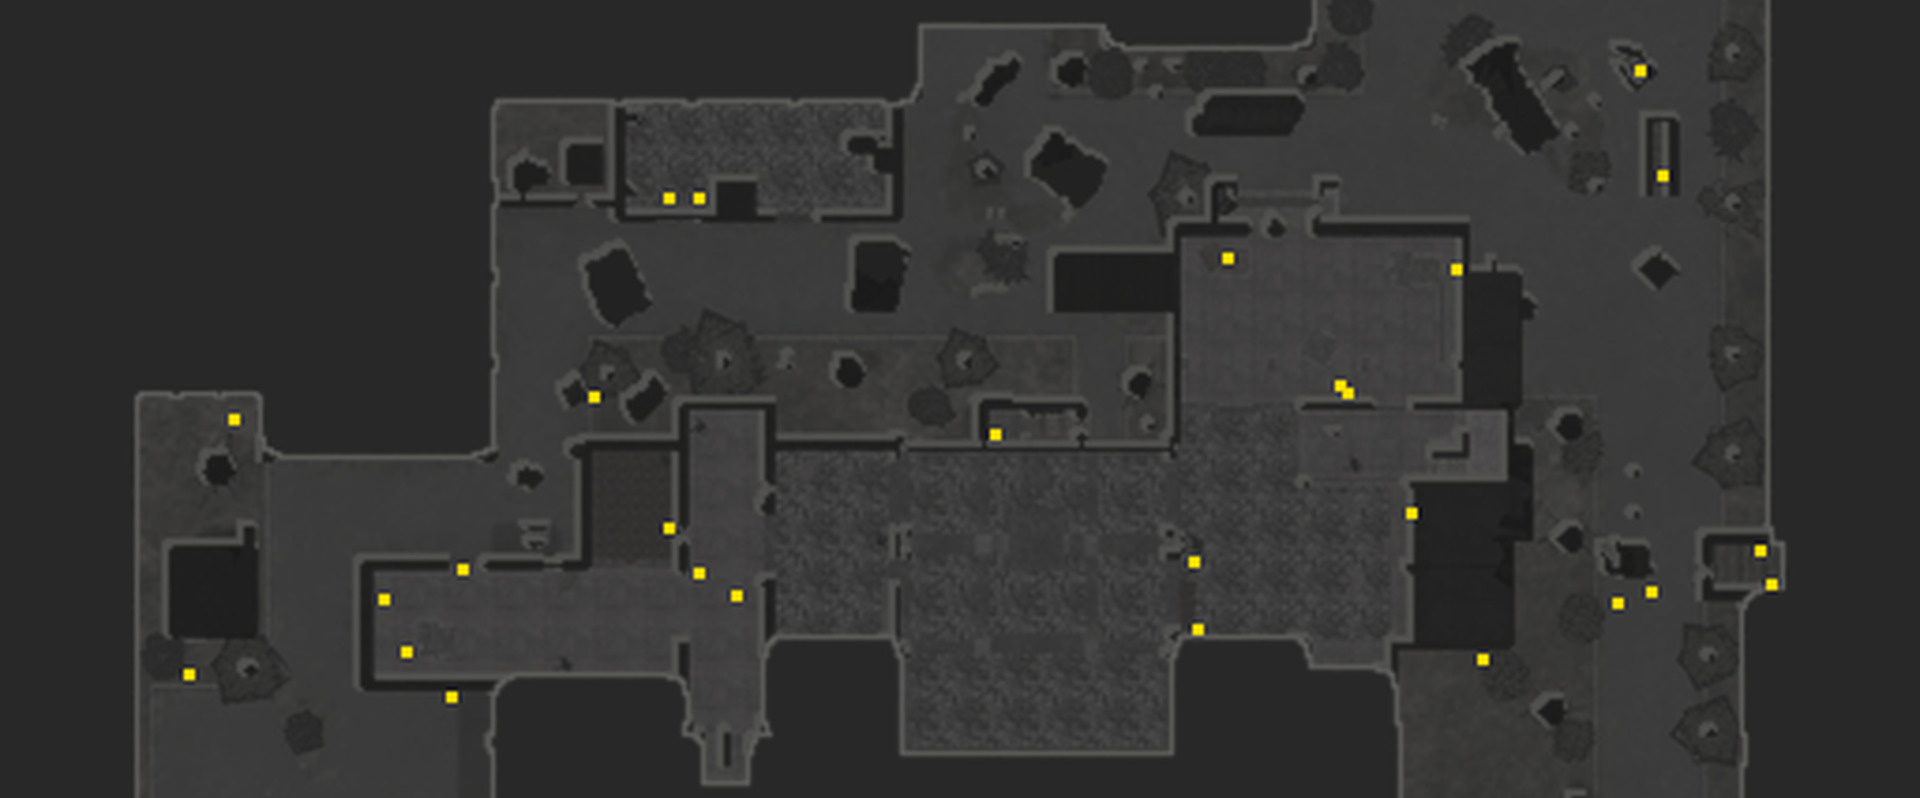
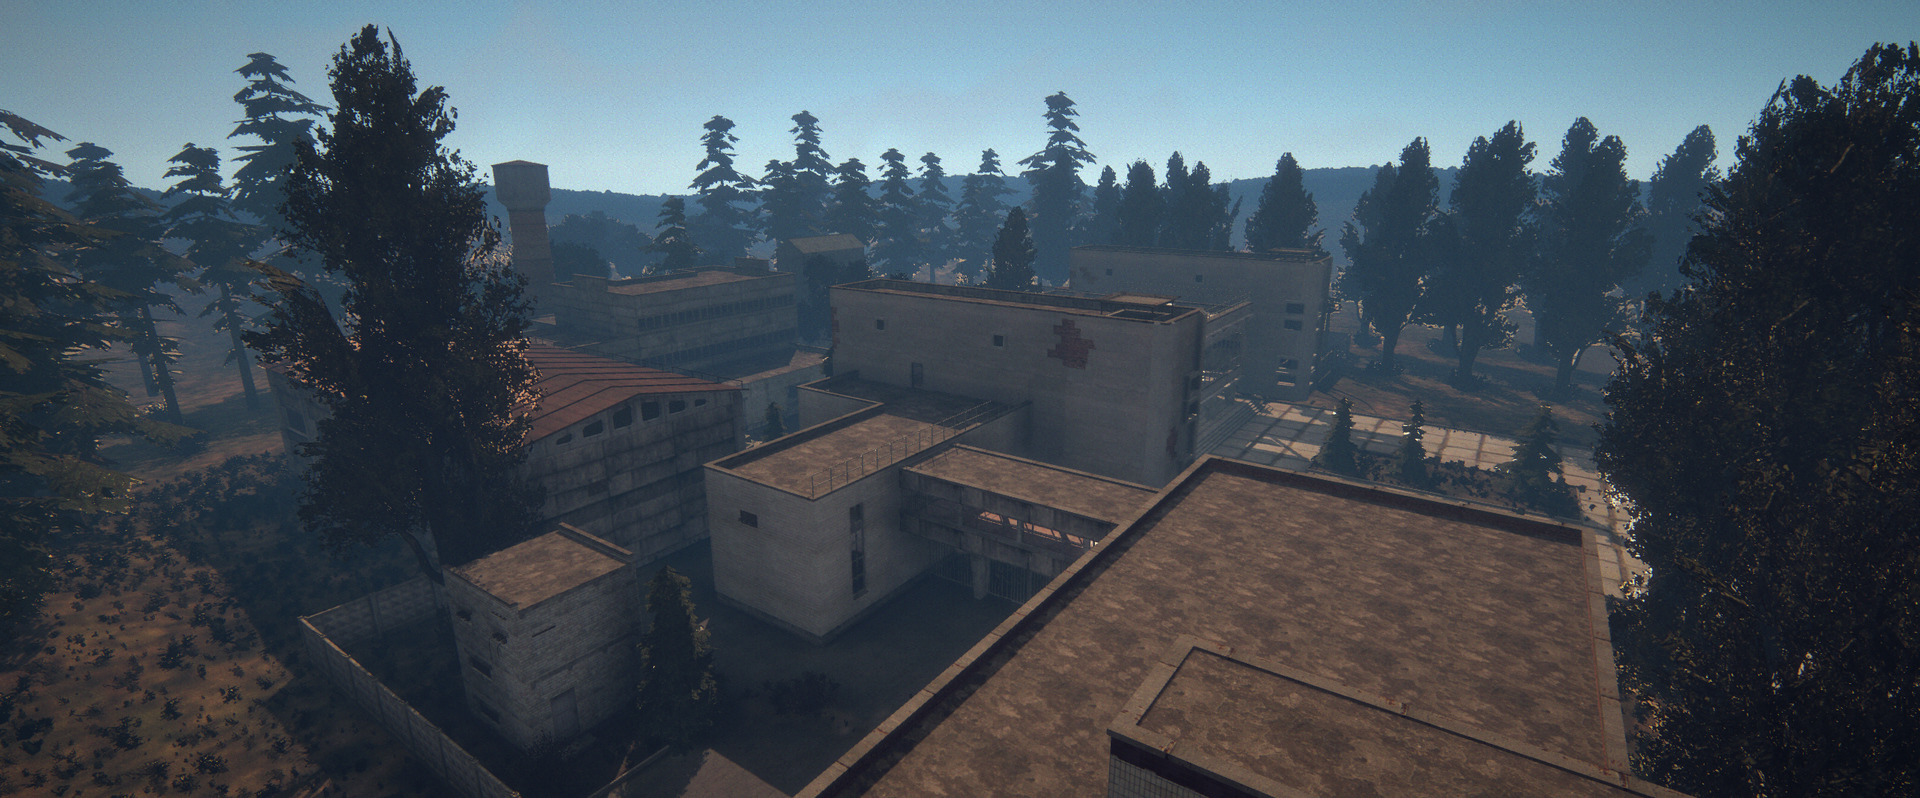
STALKER maps: pack stalker-maps-2@2 (thinner grass), loading pictures from the game
- Dark Valley and Fire Station died loading on the rev59 client with their
  levels' grass (142,346 and 147,551 tufts: grass_cook::on_layers_loaded
  needs count x 20 bytes of the resource thread's stack, which patch 128
  sets to 2 MiB). Pack @2 has 55,959 and 49,767 (resource-porter
  density 0.5 and 1.0); Vehicle Station's 71,179 loads. The notes say
  Experimental Pool's 125,844 is over that line too.
- Loading pictures (room tiles, vote cards) of Dark Valley, Vehicle Station
  and Fire Station: headless frames of the game at 2560 x 1440, highest
  settings; Sports Center keeps the minimap preview for now.

diff --git a/srp-026g/scripts/stalker-maps/make_ffa_edits.py b/srp-026g/scripts/stalker-maps/make_ffa_edits.py
@@ -1,6 +1,6 @@
 #!/usr/bin/env python3
 """Generate ffa-stalker-1.json from checked FFA points and stalker-maps@6, or
-(--second) ffa-stalker-2.json from ffa-spawns-2.tsv and stalker-maps-2@1.
+(--second) ffa-stalker-2.json from ffa-spawns-2.tsv and stalker-maps-2@2.
 
 --pack is the source pack folder (pack.json and files/). --dictionary is the
 composed gameplay/db_static_dictionaries, used to refuse occupied FFA IDs.
@@ -179,14 +179,14 @@ def edits(pack, dictionary):
     return out
 
 
-# The second list: Dark Valley, Vehicle Station, Fire Station and Sports Center (pack stalker-maps-2@1,
+# The second list: Dark Valley, Vehicle Station, Fire Station and Sports Center (pack stalker-maps-2@2,
 # maps_dict 33-36 held out of the dictionary by stalker-tdm-hold-1.json), each with its own Free for
 # All config on its own project (`day_8`, copied by ffa-projects-1.json) and the points of
 # ffa-spawns-2.tsv: the STALKER planner's 24 (ffa-points) made twice as many by the spawn rule
 # (check-points' to_cover --times 2), as the first list's maps have them after ffa-cover-maps-1.
 OUT_2 = HERE.parent / 'content-edit/ffa-stalker-2.json'
 POINTS_2 = HERE / 'ffa-spawns-2.tsv'
-PACK_2 = ('stalker-maps-2', '1')
+PACK_2 = ('stalker-maps-2', '2')
 MAPS_2 = [('cs_mp_darkvalley', 33, 37), ('cs_mp_atp', 34, 38), ('cs_mp_firestation', 35, 39), ('cs_mp_sport_center', 36, 40)]
 # 24 planned, twice as many by the rule: 48 a map, less the points left out (EXCLUDED_2).
 COUNT_2 = 48
@@ -256,7 +256,7 @@ def table_2(planned, cover):
 def edits_2(pack, dictionary, count=None):
     manifest = json.loads((pack / 'pack.json').read_text())
     if (manifest['id'], str(manifest['version'])) != PACK_2:
-        raise ValueError('recheck the collision and the points for a pack other than stalker-maps-2@1')
+        raise ValueError('recheck the collision and the points for a pack other than stalker-maps-2@2')
     rows = tree(dictionary.read_bytes())['maps_dict']
     used = {r['id'] for r in rows}
     names = {r['cfg_mode_name'] for r in rows}
@@ -265,7 +265,7 @@ def edits_2(pack, dictionary, count=None):
     checked = points_2(count)
     points = (f'{count} team-2 points a map' if count else
               f'{COUNT_2} team-2 points a map (Vehicle Station 47: none on the roof only its ladder clmbl#4 reaches)')
-    out = {'_about': 'Free for All on Dark Valley, Vehicle Station, Fire Station and Sports Center (pack stalker-maps-2@1; '
+    out = {'_about': 'Free for All on Dark Valley, Vehicle Station, Fire Station and Sports Center (pack stalker-maps-2@2; '
            'maps_dict 37-40, their Team Deathmatch rows 33-36 held out by stalker-tdm-hold-1). Generated by '
            'scripts/stalker-maps/make_ffa_edits.py --second from ffa-spawns-2.tsv. Each map\'s config is a copy of its '
            'Team Deathmatch config as mode 8 (rules 93/91/94, 30 kills) on its own project, day_8 (ffa-projects-1); '
@@ -277,7 +277,7 @@ def edits_2(pack, dictionary, count=None):
         tdm = f'gameplay/game_modes/v010b_{key}_level_03_day_4.options'
         ffa = f'gameplay/game_modes/ffa/v010b_{key}_day_8.options'
         if not any(r['id'] == tdm_id and r['cfg_mode_name'] == tdm.removeprefix('gameplay/game_modes/') for r in rows):
-            raise ValueError(f'missing STALKER TDM map {tdm_id}; compose stalker-maps-2@1 first')
+            raise ValueError(f'missing STALKER TDM map {tdm_id}; compose stalker-maps-2@2 first')
         if ffa_id in used or ffa.removeprefix('gameplay/game_modes/') in names:
             raise ValueError(f'FFA map {ffa_id} or config is already present')
         mode = tree((pack / 'files' / tdm).read_bytes())['mode']
@@ -341,7 +341,7 @@ def main():
                     help="write ffa-spawns-2.tsv from ffa-points' table and to_cover's rows, and nothing else")
     ap.add_argument('--pack', type=Path)
     ap.add_argument('--dictionary', type=Path)
-    ap.add_argument('--second', action='store_true', help='the second list: ffa-stalker-2.json over stalker-maps-2@1')
+    ap.add_argument('--second', action='store_true', help='the second list: ffa-stalker-2.json over stalker-maps-2@2')
     ap.add_argument('--planned', type=int, metavar='N', help="--second with the planner's N points a map alone (to_cover's input)")
     ap.add_argument('--out', type=Path)
     ap.add_argument('--check', action='store_true')

diff --git a/srp-026g/scripts/damage-calc/assets/maps/tools/build_all.py b/srp-026g/scripts/damage-calc/assets/maps/tools/build_all.py
@@ -82,22 +82,22 @@ PATCHED = {
                                    origin='Clear Sky port, pack stalker-maps@6 (patch 57)', name='Training Camp',
                                    name_key='st_cs_training_camp_name', project_name='cs_training_camp', project='day_8',
                                    modes=(8,), map_ids={44: 8}),
-    # The four of pack stalker-maps-2@1 (Free for All only; docs/notes/stalker-maps.md). Their bitmaps
+    # The four of pack stalker-maps-2@2 (Free for All only; docs/notes/stalker-maps.md). Their bitmaps
     # are named as FFDec exports the hud.swf that has them (the classes after them took new ids).
     'v010b_cs_mp_darkvalley': dict(size=76.509, posX=278.25, posY=-207.54, bitmap='1032_minimap_cs_mp_darkvalley.png',
-                      origin='Clear Sky port, pack stalker-maps-2@1', name='Dark Valley',
+                      origin='Clear Sky port, pack stalker-maps-2@2', name='Dark Valley',
                       name_key='st_cs_mp_darkvalley_name', project_name='cs_mp_darkvalley', project='day_8', modes=(8,),
                       map_ids={37: 8}),
     'v010b_cs_mp_atp': dict(size=73.143, posX=135.325, posY=-26.975, bitmap='1030_minimap_cs_mp_atp.png',
-                      origin='Clear Sky port, pack stalker-maps-2@1', name='Vehicle Station',
+                      origin='Clear Sky port, pack stalker-maps-2@2', name='Vehicle Station',
                       name_key='st_cs_mp_atp_name', project_name='cs_mp_atp', project='day_8', modes=(8,),
                       map_ids={38: 8}),
     'v010b_cs_mp_firestation': dict(size=73.143, posX=-8.48, posY=14.84, bitmap='1033_minimap_cs_mp_firestation.png',
-                      origin='Clear Sky port, pack stalker-maps-2@1', name='Fire Station',
+                      origin='Clear Sky port, pack stalker-maps-2@2', name='Fire Station',
                       name_key='st_cs_mp_firestation_name', project_name='cs_mp_firestation', project='day_8', modes=(8,),
                       map_ids={39: 8}),
     'v010b_cs_mp_sport_center': dict(size=73.143, posX=-58.66, posY=-36.47, bitmap='1036_minimap_cs_mp_sport_center.png',
-                      origin='Clear Sky port, pack stalker-maps-2@1', name='Sports Center',
+                      origin='Clear Sky port, pack stalker-maps-2@2', name='Sports Center',
                       name_key='st_cs_mp_sport_center_name', project_name='cs_mp_sport_center', project='day_8', modes=(8,),
                       map_ids={40: 8}),
 }

diff --git a/srp-026g/scripts/v011e-vostok-anomalies/make_modes_edit.py b/srp-026g/scripts/v011e-vostok-anomalies/make_modes_edit.py
@@ -99,7 +99,7 @@ def build(base, research_pack):
     edits['remove_entry'] = [{'file': BATTERY, 'list': path, 'where': {'full_name': e['full_name']}}
                              for e in previous]
     edits['append_entry'].append({'file': 'gameplay/db_static_dictionaries', 'list': 'maps_dict',
-                                  # Includes the six stalker-maps@6 and four stalker-maps-2@1 TDM registrations.
+                                  # Includes the six stalker-maps@6 and four stalker-maps-2@2 TDM registrations.
                                   'expected_count': 164, 'unique_key': 'id',
                                   'value': {'cfg_mode_name': 'v011e_level_03_day_5.options', 'id': MAP_ID}})
     return edits

diff --git a/srp-026g/scripts/stalker-maps/ffa-points/src/main.rs b/srp-026g/scripts/stalker-maps/ffa-points/src/main.rs
@@ -47,7 +47,7 @@ const GROUND_BELOW: f32 = 1.0;
 const REASON: &str = "reachable standing floor; body clear; harmful zones >=2m; walkable facing 6m; spread farthest-first";
 const TRAINING_REASON: &str = "reachable standing floor; body clear; harmful zones >=2m; walkable facing 6m; spread farthest-first in 3D";
 
-/// Bounds of the reviewed port's minimaps (stalker-maps@6, stalker-maps-2@1:
+/// Bounds of the reviewed port's minimaps (stalker-maps@6, stalker-maps-2@2:
 /// render_minimap.py's play area). The imported projects have a dummy 2 m
 /// levelmap; mapdata's native-map fallback truncates Military Warehouses.
 /// Training Camp has open scenery beyond its fence.

diff --git a/srp-026g/docs/notes/stalker-maps.md b/srp-026g/docs/notes/stalker-maps.md
@@ -66,11 +66,13 @@ its row of `release/content.tsv`. The list must stay the last that edits
 ## Four more maps: stalker-maps-2 (the owner, 2026-11-14)
 
 "Port four STALKER multiplayer maps", Free for All only, Clear Sky's versions:
-pack `stalker-maps-2@1` and content edit `ffa-stalker-2.json`. Built after the
+pack `stalker-maps-2@2` and content edit `ffa-stalker-2.json`. Built after the
 released `stalker-maps@6`, which they do not change: `release/build-content 60`
-(a quick build, `content-maps2-c` below) makes 4,847 new files, all the four
-maps' (their namespaces `ported/cs/<map>`, projects, ramp models and probes),
-and changes no file of the six maps; the 15 files that differ are the hud and
+(a quick build, `/mnt/hdd/Projects/stalker-maps-026/content-maps2-d`) makes
+4,855 new files, the four maps' (their namespaces `ported/cs/<map>`,
+projects, configs, ramp models and probes, and the four default probe
+textures `textures/ported/v010b/environment_probes/environment_probe*`), and
+changes no file of the six maps; the 15 files that differ are the hud and
 lobby movies, `gameplay/db_static_dictionaries` and the eleven localization
 files. The pack leaves out the 44 v0.100b template files (`textures/` and
 `material_instances/ported/v010b/{tiled,flora,sky,...}`) players have from
@@ -108,9 +110,17 @@ that would differ stops the build), so it needs that pack beside it.
   shift by 4 (as `stalker-maps@6`'s six did); `artefact-keeper-1` gives the
   four TDM projects their Keeper pool (Free for All's copies take it);
   `simulation_changes.tsv` has the `next` row.
-- Grass: X-Ray's detail objects on Dark Valley (142,346 tufts), Vehicle
-  Station (71,179) and Fire Station (147,551 at `density` 0.5; 384,112 at
-  the level's); Sports Center's level has none.
+- Grass: X-Ray's detail objects on Dark Valley (55,959 tufts at `density`
+  0.5; 142,346 at the level's 0.3), Vehicle Station (71,179) and Fire Station
+  (49,767 at `density` 1.0; 384,112 at the level's); Sports Center's level
+  has none. The client cooks a map's grass on the resource thread with
+  count x 20 bytes of stack (`grass_cook::on_layers_loaded` 0x12A820,
+  `_chkstk` from 0x12AC7E), and patch 128 gives that thread 2 MiB
+  (`THREAD_STACKS`, 0xE37BA): with 142,346 and 147,551 tufts the rev59
+  client died loading Dark Valley and Fire Station (`STACK_OVERFLOW`, 3 of
+  3; reports in `/mnt/hdd/Projects/stalker-maps-026/previews-maps2/crashes/`),
+  hence the thinner grass (at most 71,179, 1.4 MB: pack @2; @1, never released, had them all). Experimental Pool's
+  125,844 (2.5 MB) is over that line too: to check on the live client.
 - Static render geometry (`geometry.py`): Dark Valley 16.3 MiB, Vehicle
   Station 22.9, Fire Station 11.8, Sports Center 9.2 (native maps 43-48,
   the vertex pool 88 MB). Collision 194,093, 312,969, 190,097 and 88,835
@@ -172,7 +182,8 @@ projects). The points: the STALKER planner's 24 (`ffa-points`, its play
 areas the minimaps' frames) made twice as many by the spawn rule
 (check-points' `to_cover --times 2`; `ffa.md`): 48 a map, Vehicle Station
 47 (its point 14 stood on the roof only clmbl#4 reaches and is left out,
-`EXCLUDED_2`). Run on build C, `to_cover --times 1` keeps all 191 as they are.
+`EXCLUDED_2`). Run on that build, `to_cover --times 1` keeps all 191 as
+they are, and the released Free for All maps test passes on its server data.
 
 ```sh
 stalker-ffa-points <layers> --project v010b_cs_mp_<map>/day_4 ... --plots P > planned.tsv
@@ -196,8 +207,17 @@ appended (the manifest's state before the list).
   the bushes' rustle (`stalker-bushes`, made from `stalker-maps@6` only: a
   row each of `make_pack.py`'s `MAPS` and a pack of their leaves). Each is a
   row more in that list or script.
-- The loading pictures are frames of the game (2560 x 1440, highest
-  settings), or, until those are taken, the minimap's preview.
+- Loading pictures: frames of the game, headless at 2560 x 1440, highest
+  settings, hfov 100 (Dark Valley `sw-high` (200, 28, -262) yaw 55.2 pitch
+  -15.7; Vehicle Station `e-high` (196, 18, -27) -90 / -20.7; Fire Station
+  `nw-high` (-72, 26, 66) 128.9 / -12.8, the hose tower in the middle; all
+  high overviews: the eye-level tries were blocked). Sports Center still has
+  the minimap's preview: its capture waited on the owner's game. The shots,
+  contact sheets and the harness (its 8 Sports Center poses ready) are in
+  `/mnt/hdd/Projects/stalker-maps-026/previews-maps2/`.
+- A flat surface in Dark Valley's north and north-east yards, knee to eye
+  high, is drawn plain white in those frames (`n-yard`, `ne-yard`): not
+  looked into.
 - Seen in the game: nothing yet (not played, not released). Bots have no
   map data for them (Free for All is not played with bots).
 

diff --git a/srp-026g/scripts/damage-calc/assets/maps/README.md b/srp-026g/scripts/damage-calc/assets/maps/README.md
@@ -24,10 +24,10 @@ elevation grid for every map.
 | v010b_cs_mp_bath | Experimental Pool | 0.0952 | 42 (STALKER port, patch 57; Free for All) |
 | v010b_cs_mp_military_1 | Military Warehouses | 0.1843 | 43 (STALKER port, patch 57; Free for All) |
 | v010b_cs_training_camp | Training Camp | 0.1038 | 44 (STALKER port, patch 57; Free for All) |
-| v010b_cs_mp_darkvalley | Dark Valley | 0.0996 | 37 (STALKER port, pack stalker-maps-2@1; Free for All) |
-| v010b_cs_mp_atp | Vehicle Station | 0.0952 | 38 (STALKER port, pack stalker-maps-2@1; Free for All) |
-| v010b_cs_mp_firestation | Fire Station | 0.0952 | 39 (STALKER port, pack stalker-maps-2@1; Free for All) |
-| v010b_cs_mp_sport_center | Sports Center | 0.0952 | 40 (STALKER port, pack stalker-maps-2@1; Free for All) |
+| v010b_cs_mp_darkvalley | Dark Valley | 0.0996 | 37 (STALKER port, pack stalker-maps-2@2; Free for All) |
+| v010b_cs_mp_atp | Vehicle Station | 0.0952 | 38 (STALKER port, pack stalker-maps-2@2; Free for All) |
+| v010b_cs_mp_firestation | Fire Station | 0.0952 | 39 (STALKER port, pack stalker-maps-2@2; Free for All) |
+| v010b_cs_mp_sport_center | Sports Center | 0.0952 | 40 (STALKER port, pack stalker-maps-2@2; Free for All) |
 
 All weathers and modes of a level share one image. The mode projects differ only
 in mode props such as battery racks, containers and charging stations; the

diff --git a/srp-026g/docs/notes/stalker-ffa.md b/srp-026g/docs/notes/stalker-ffa.md
@@ -11,7 +11,7 @@ Military Warehouses' perimeter FFA spawns (7 each) are moved to their centre
 afterwards, ids kept, by `ffa-center-1` with the other maps (`ffa.md`), so
 their day_8 positions are not all ffa-spawns.tsv's.
 
-Dark Valley, Vehicle Station, Fire Station and Sports Center (pack `stalker-maps-2@1`, maps_dict 37-40, `ffa-stalker-2.json`, 48 points each by the spawn rule, Vehicle Station 47) are in `stalker-maps.md`, "Four more maps".
+Dark Valley, Vehicle Station, Fire Station and Sports Center (pack `stalker-maps-2@2`, maps_dict 37-40, `ffa-stalker-2.json`, 48 points each by the spawn rule, Vehicle Station 47) are in `stalker-maps.md`, "Four more maps".
 
 This integrates the previously unmerged `stalker-maps@6` pack, which supplies
 six TDM ports. The other three are Repair Depot, Station and Depository. Only
